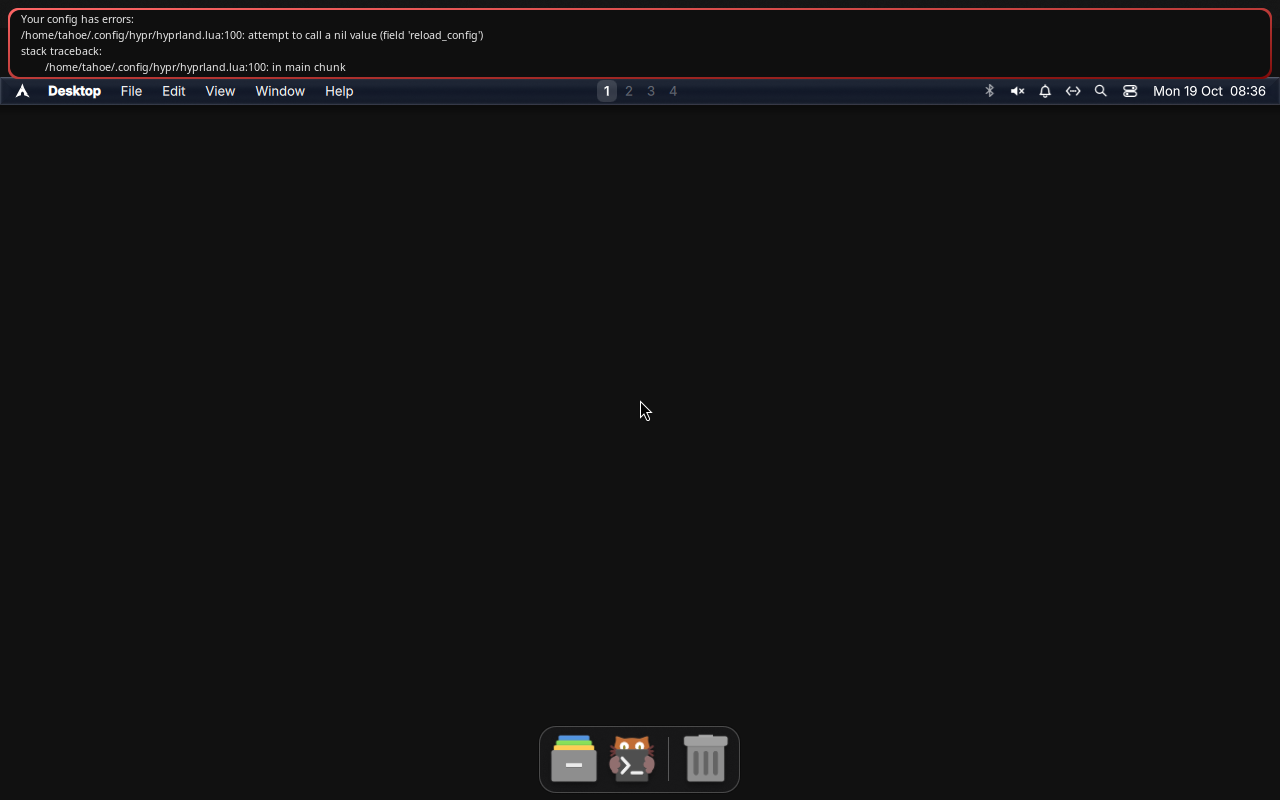
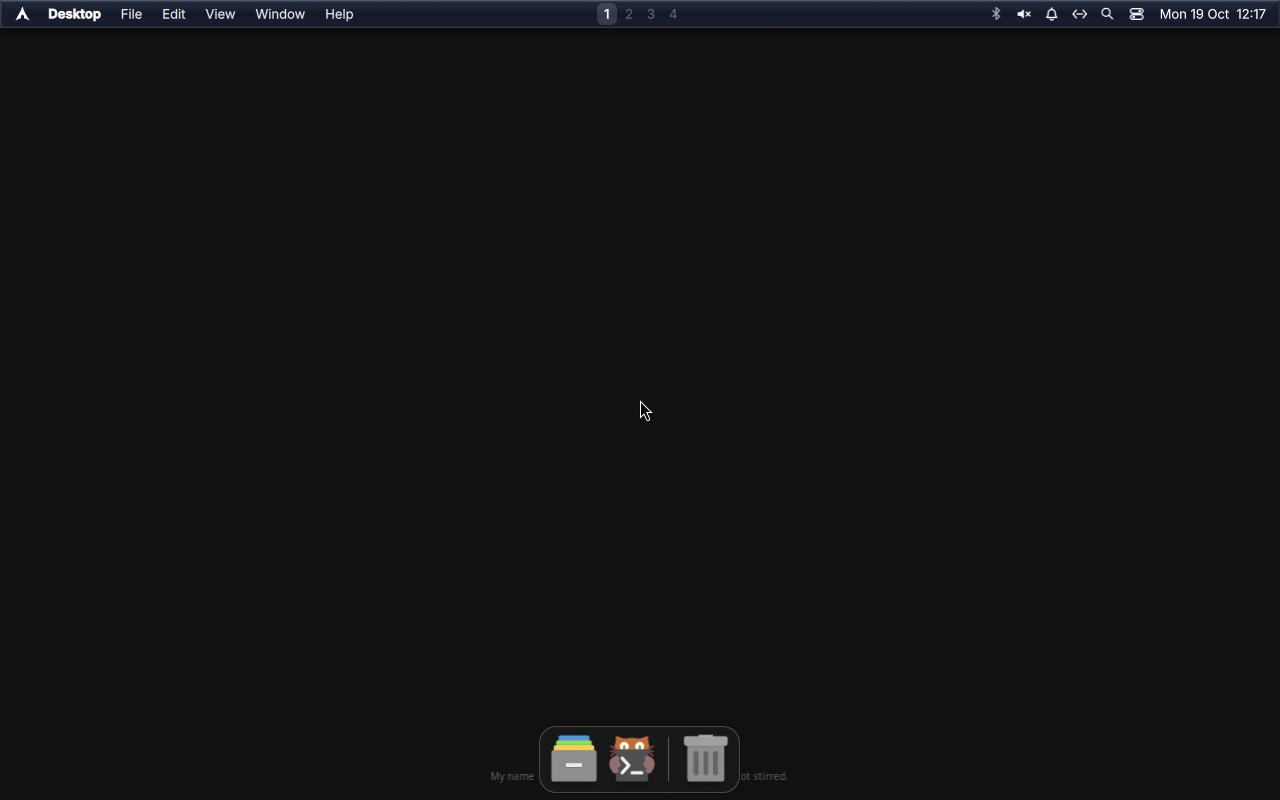
The rebuilt ISO boots: first image that actually reaches the desktop
CI built 2026-10-19 from the boot fixes (run 39229471074, 67 profile checks
green) and it was booted the ordinary way — SeaBIOS into the ISO's own
syslinux, no -kernel override.

  tahoe-2026.10.19-x86_64.iso  1 739 030 528 bytes
  sha256 791a38194ec254bda7c2b533db10390a18e8c482610bbeaf8e9e46bbe8da1749

Different checksum from the previous build, same size — the edits are a few
bytes inside a 1.6 GiB squashfs and block alignment absorbs them, which is
why the checksum is the check that matters. The booted image carries
'archisobasedir=tahoe archisolabel=TAHOE_202610 systemd.firstboot=no'.

Result: no emergency shell, Hyprland starts, MacShell draws its menu bar,
workspace pills, clock and Dock, and the config-error banner is gone — so the
window and layer rules below the old line 100 now apply.

UEFI remains unverified: the El Torito catalog has the EFI section and
tahoe.conf carries the same fixes, but no OVMF is available here (not on the
host, not in the Flatpak sandbox, and the Arch mirror did not answer), so that
path is still fixed by inspection only.

Changed region(s): [[0.0, 0.0, 1.0, 0.1562]]

diff --git a/docs/iso-boot.md b/docs/iso-boot.md
@@ -1,8 +1,8 @@
 # Booting the ISO: what the first boot test found
 
-> Status: **the built ISO did not boot. Three defects, all fixed; two of them
-> confirmed fixed by booting the image again.** The evidence below is from
-> QEMU, not from reading the profile.
+> Status: **the shipped ISO did not boot. Three defects, all fixed, and the
+> rebuilt ISO has since booted through the real bootloader to the desktop.**
+> The evidence below is from QEMU, not from reading the profile.
 >
 > Date: 2026-10-19. Image under test:
 > `tahoe-2026.10.18-x86_64.iso`, 1 739 030 528 bytes,
@@ -148,7 +148,28 @@ is text on a serial line:
 
 ![the live session](iso-boot-session.png)
 
-## 6. Still true after all this
+## 6. The rebuilt ISO, booted through the bootloader
+
+CI rebuilt the image from the fixes (run 39229471074, 12m51s, all 67 profile
+checks green) and it was booted the ordinary way — no `-kernel`, no `-append`,
+just SeaBIOS handing control to the ISO's own syslinux:
+
+| | |
+|---|---|
+| image | `tahoe-2026.10.19-x86_64.iso`, 1 739 030 528 bytes |
[1 lines of base64/hex data omitted]
+| differs from the previous build | yes — `0037ca5e…` → `791a38…`, so the config change really is in the image |
+| booted config, from inside the ISO | `APPEND archisobasedir=tahoe archisolabel=TAHOE_202610 systemd.firstboot=no` |
+| result | no emergency shell; Hyprland starts and MacShell draws its menu bar, workspace pills, clock and Dock |
+| error banner | **gone** — the `hyprland.lua:100` abort is fixed, so the window and layer rules below it now apply |
+
+![the rebuilt image, booted through syslinux](iso-boot-session.png)
+
+The same size as the previous build is expected and not a sign that nothing
+changed: the edits are a few bytes inside a 1.6 GiB squashfs, and block
+alignment absorbs them. The checksum is the check that matters.
+
+## 7. Still true after all this
 
 - **`systemd-binfmt.service` fails** on the live image
   (`Failed to start Set Up Additional Binary Formats`). For most distros that
@@ -163,11 +184,6 @@ is text on a serial line:
   the syslinux one, but no UEFI firmware was available to this session
   (`edk2-ovmf` is not installed and the mirror was busy), so the UEFI side is
   fixed by inspection only.
-- **The ISO was never rebuilt with these fixes.** A rebuild needs `archiso`
-  and root; the fixes were verified by booting the shipped kernel and
-  initramfs with a corrected command line, which exercises everything except
-  the two bootloader config files themselves. The next CI run is the first
-  that will boot through the real bootloader.
 - **The artifact expires.** CI uploads the ISO with `retention-days: 1`, and
   there is no GitHub Release, so the image stops being downloadable a day
   after it is built. A tag exists (`v0.1.0`); `gh release view v0.1.0` says

diff --git a/TODO.md b/TODO.md
@@ -92,10 +92,10 @@ same code that defines the layout and palette. What is missing is the *client*:
       aborting the config) fixed. Evidence: `docs/iso-boot.md`.
 - [x] The desktop really does come up: Hyprland starts and MacShell renders
       its menu bar, clock, workspace pills and Dock.
-- [ ] **Rebuild the ISO and boot it through the real bootloader.** The fixes
-      were verified by booting the shipped kernel and initramfs with a
-      corrected command line, which is everything except the two bootloader
-      config files. Until CI rebuilds, no ISO in existence has the fixes.
+- [x] CI rebuilt the image (run 39229471074) and the result was booted through
+      the real bootloader: `tahoe-2026.10.19-x86_64.iso`,
+      `sha256 791a3819…1749`, no emergency shell, desktop up, config-error
+      banner gone. This is the first ISO that boots.
 - [ ] UEFI boot: the El Torito catalog has an EFI section, but no OVMF was
       available to boot it, so that path is fixed by inspection only.
 - [ ] `systemd-binfmt.service` **fails** on the live image. For a distro whose
